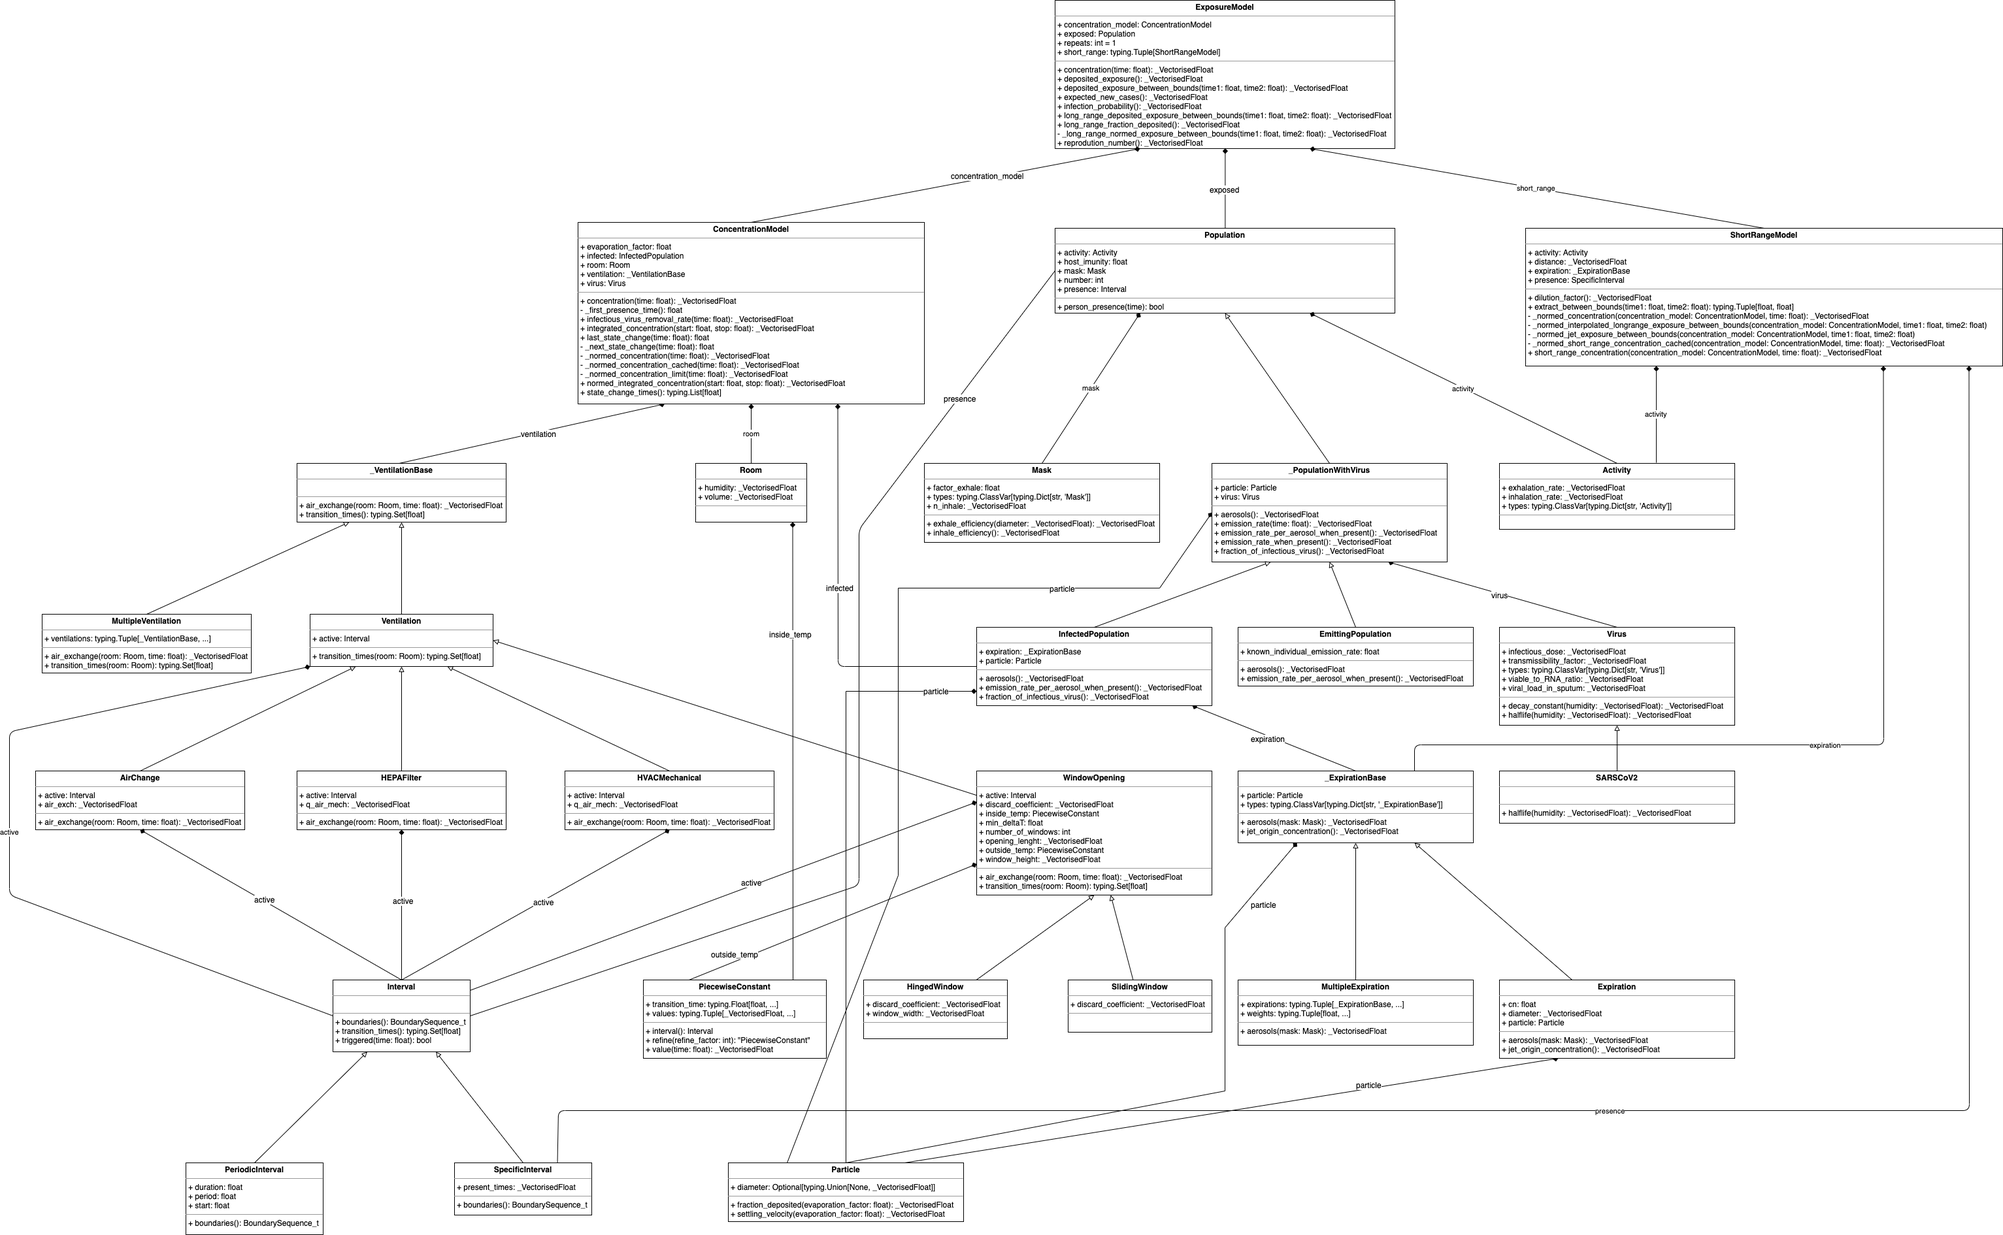
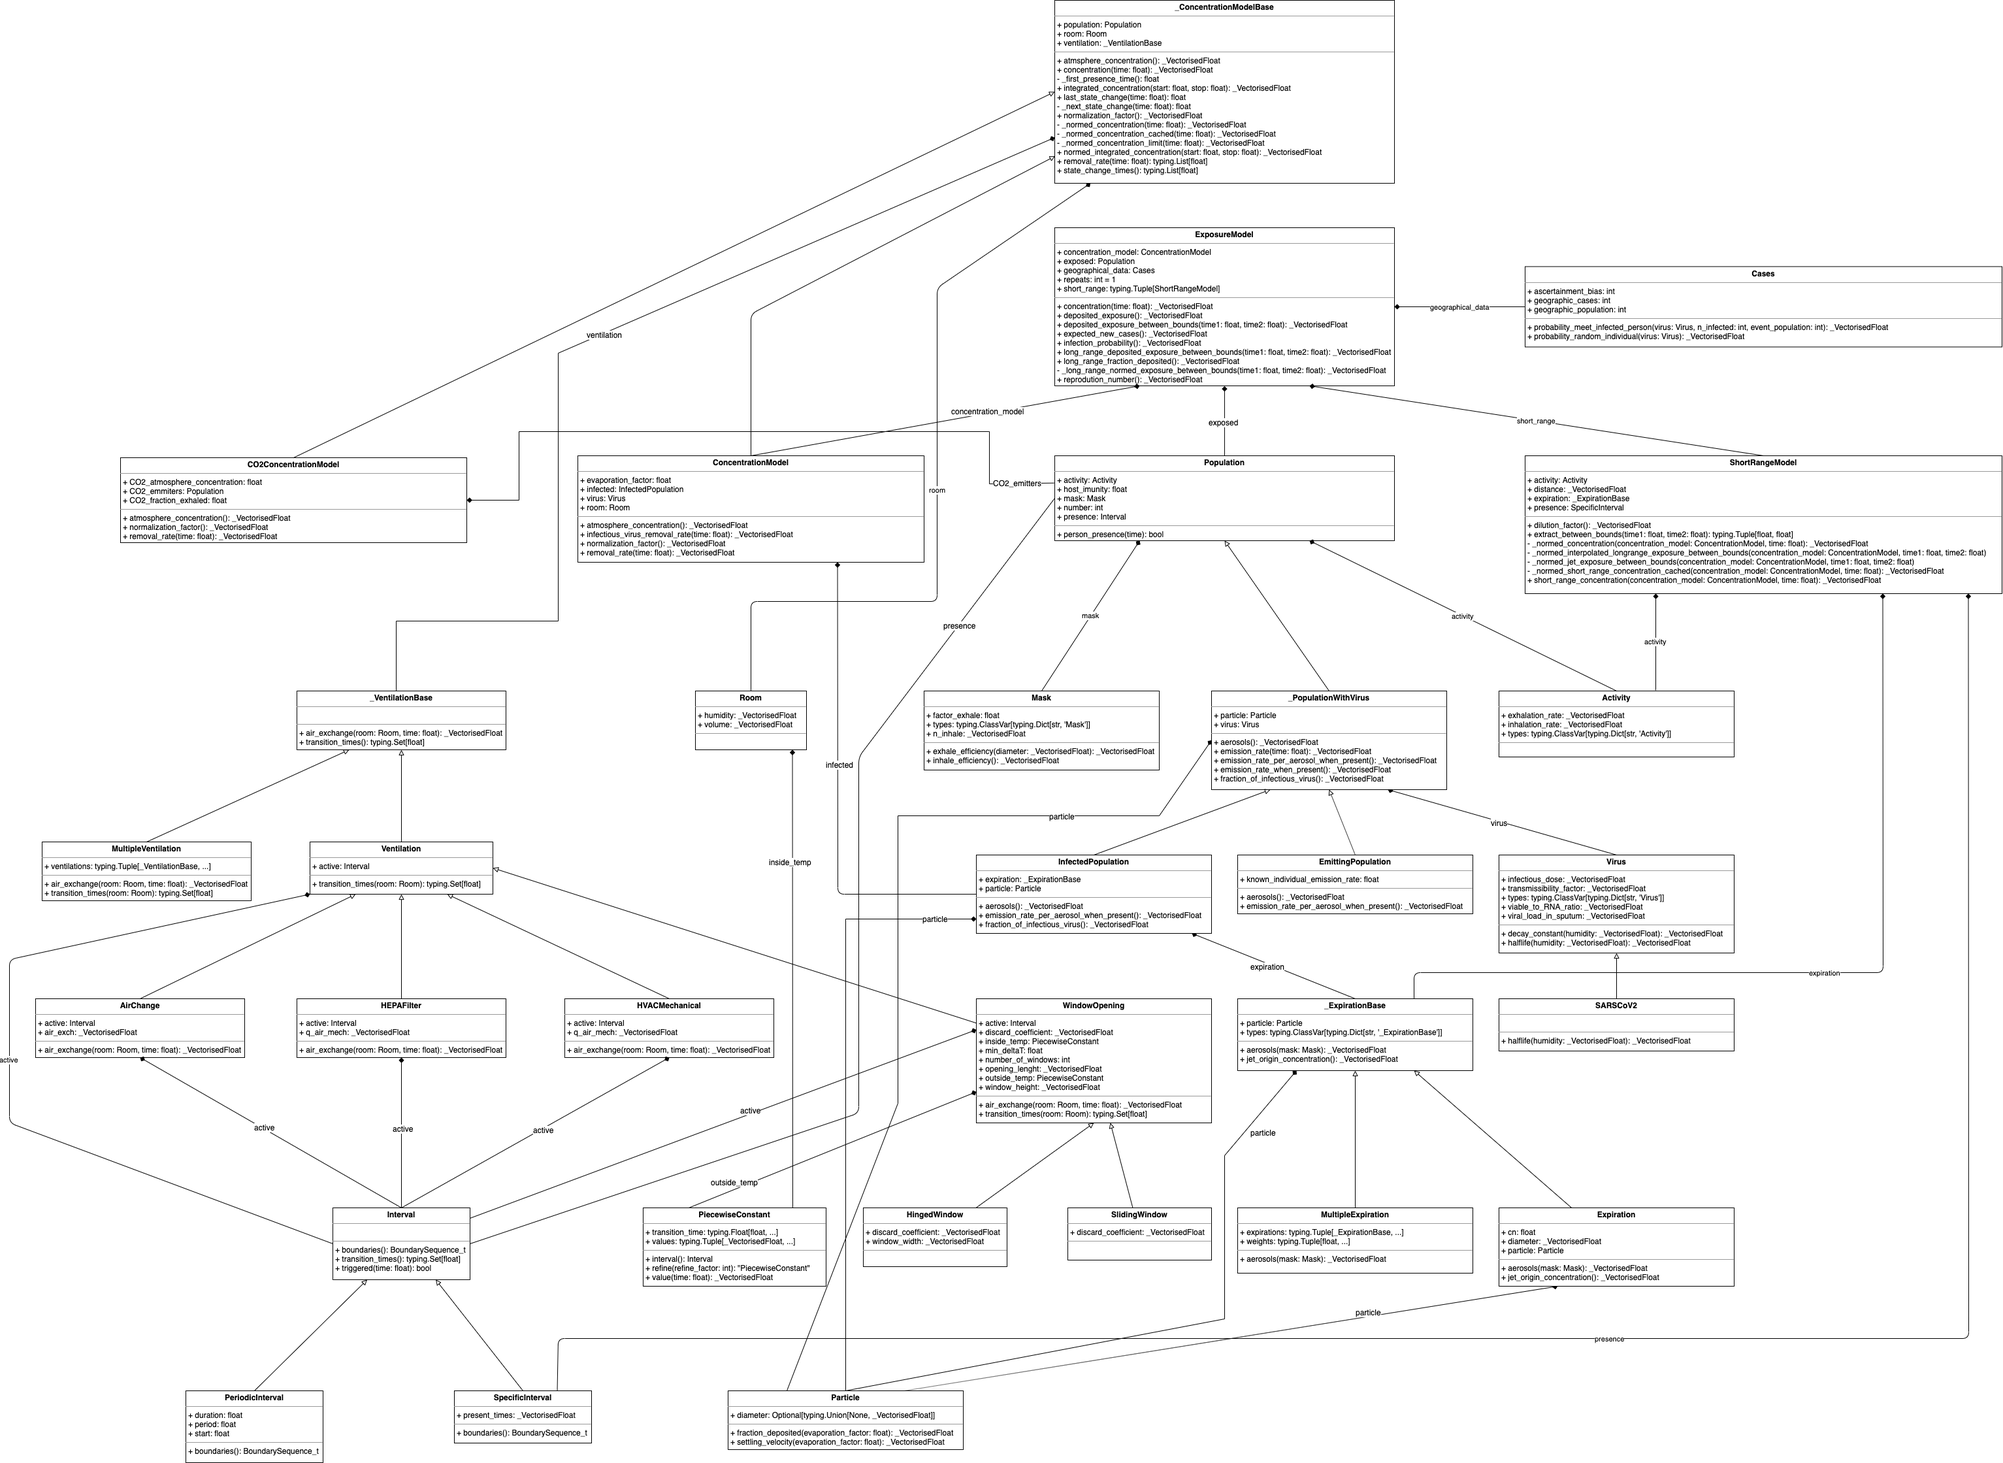
updated documentation and added tests for the integrated concentration

diff --git a/caimira/tests/models/test_concentration_model.py b/caimira/tests/models/test_concentration_model.py
@@ -3,8 +3,33 @@ import re
 import numpy as np
 import numpy.testing as npt
 import pytest
+from dataclasses import dataclass
 
 from caimira import models
+
+@dataclass(frozen=True)
+class KnownConcentrationModelBase(models._ConcentrationModelBase):
+    """
+    A ConcentrationModel where the atmosphere_concentration method is
+    redefined with a value taken from a new parameter. Useful for testing.
+
+    """
+    known_population: models.Population
+
+    known_atmosphere_concentration: float = 0.0
+
+    @property
+    def population(self) -> models.Population:
+        return self.known_population
+
+    def removal_rate(self, time: float):
+        return 10.
+
+    def atmosphere_concentration(self):
+        return self.known_atmosphere_concentration
+
+    def normalization_factor(self):
+        return 1e2
 
 
 @pytest.mark.parametrize(
@@ -59,9 +84,9 @@ def test_concentration_model_vectorisation(override_params):
 def simple_conc_model():
     interesting_times = models.SpecificInterval(([0.5, 1.], [1.1, 2], [2., 3.]), )
     return models.ConcentrationModel(
-        models.Room(75, models.PiecewiseConstant((0., 24.), (293,))),
-        models.AirChange(interesting_times, 100),
-        models.InfectedPopulation(
+        room = models.Room(75, models.PiecewiseConstant((0., 24.), (293,))),
+        ventilation = models.AirChange(interesting_times, 100),
+        infected = models.InfectedPopulation(
             number=1,
             presence=interesting_times,
             mask=models.Mask.types['Type I'],
@@ -137,3 +162,33 @@ def test_integrated_concentration(simple_conc_model):
     c3 = simple_conc_model.integrated_concentration(1, 2)
     assert c1 != 0
     npt.assert_almost_equal(c1, c2 + c3, decimal=15)
+
+
+@pytest.mark.parametrize(
+    "known_atmosphere_concentration, expected_normed_integrated_concentration", [
+        [0.0, 0.0017333437605308818],
+        [240.0, 4.801733343835203],
+        [440.0, 8.801733343835203],
+        [600., 12.001733343835202],
+        [1000., 20.00173334429238],
+    ]
+)
+def test_normed_integrated_concentration(
+    simple_conc_model: models.ConcentrationModel, 
+    known_atmosphere_concentration: float, 
+    expected_normed_integrated_concentration: float):
+
+    dummy_population = models.Population(
+        number=10,
+        presence=simple_conc_model.infected.presence,
+        mask=models.Mask.types['Type I'],
+        activity=models.Activity.types['Seated'],
+        host_immunity=0.,
+    )
+
+    known_conc_model = KnownConcentrationModelBase(
+        simple_conc_model.room, 
+        simple_conc_model.ventilation, 
+        dummy_population,
+        known_atmosphere_concentration)
+    npt.assert_almost_equal(known_conc_model.normed_integrated_concentration(0, 2), expected_normed_integrated_concentration)

diff --git a/caimira/tests/models/test_co2_concentration_model.py b/caimira/tests/models/test_co2_concentration_model.py
@@ -1,0 +1,44 @@
+import numpy.testing as npt
+import pytest
+
+from caimira import models
+
+
+@pytest.fixture
+def simple_co2_conc_model():
+    return models.CO2ConcentrationModel(
+        room=models.Room(200, models.PiecewiseConstant((0., 24.), (293,))),
+        ventilation=models.AirChange(models.PeriodicInterval(period=120, duration=120), 0.25),
+        CO2_emitters=models.Population(
+            number=5,
+            presence=models.SpecificInterval((([0., 4.], ))),
+            mask=models.Mask.types['No mask'],
+            activity=models.Activity.types['Seated'],
+            host_immunity=0.,
+        ),
+    )
+
+
+@pytest.mark.parametrize(
+    "time, expected_co2_concentration", [
+        [0., 440.44],
+        [1., 914.2487227],
+        [2., 1283.251327],
+        [3., 1570.630844],
+        [4., 1794.442237],
+    ]
+)
+def test_co2_concentration(
+    simple_co2_conc_model: models.CO2ConcentrationModel,
+    time: float,
+    expected_co2_concentration: float,
+):
+    npt.assert_almost_equal(simple_co2_conc_model.concentration(time), expected_co2_concentration)
+
+
+def test_integrated_concentration(simple_co2_conc_model):
+    c1 = simple_co2_conc_model.integrated_concentration(0, 2)
+    c2 = simple_co2_conc_model.integrated_concentration(0, 1)
+    c3 = simple_co2_conc_model.integrated_concentration(1, 2)
+    assert c1 != 0
+    npt.assert_almost_equal(c1, c2 + c3)

diff --git a/caimira/models.py b/caimira/models.py
@@ -1107,7 +1107,7 @@ class _ConcentrationModelBase:
         normalized by normalization_factor.
         """
         if stop <= self._first_presence_time():
-            return 0.0
+            return (stop - start)*self.atmosphere_concentration()/self.normalization_factor()
         state_change_times = self.state_change_times()
         req_start, req_stop = start, stop
         total_normed_concentration = 0.

diff --git a/caimira/docs/full_diameter_dependence.rst b/caimira/docs/full_diameter_dependence.rst
@@ -69,13 +69,15 @@ In the code, for a given Expiration, we use different methods to perform the cal
 Note that the diameter-dependence is kept at this stage. Since other parameters downstream in code are also diameter-dependent, the Monte-Carlo integration over the aerosol sizes is computed at the level of the dose :math:`\mathrm{vD^{total}}`.
 In case one would like to have intermediate results for emission rate, perform the Monte-Carlo integration of :math:`E_{c, j}^{\mathrm{total}}` and compute :math:`\mathrm{vR^{total}} =\mathrm{vl_{in}} \cdot E_{c, j}^{\mathrm{total}} \cdot \mathrm{BR_k}`.
 
-Concentration - C(t, D)
-=======================
+Virus Concentration - C(t, D)
+=============================
 
 The estimate of the concentration of virus-laden particles in a given room is based on a two-box exposure model:
 
 * **Box 1** - long-range exposure: also known as the *background* concentration, corresponds to the exposure of airborne virions where the susceptible (exposed) host is more than 2 m away from the infected host(s), considering the result of a mass balance equation between the emission rate of the infected host(s) and the removal rates from the environmental/virological characteristics.
 * **Box 2** - short-range exposure: also known as the *exhaled jet* concentration in close-proximity, corresponds to the exposure of airborne virions where the susceptible (exposed) host is distanced between 0.5 and 2 m from an infected host, considering the result of a two-stage exhaled jet model.
+
+Note that most of the methods used to calculate the concentration are defined in the superclass :meth:`caimira.models._ConcentrationModelBase`, while the specific methods for the long-range virus concentration are part of the subclass :meth:`caimira.models.ConcentrationModel`.
 
 Long-range approach
 *******************
@@ -84,8 +86,8 @@ The long-range concentration of virus-laden aerosols of a given size :math:`D`, 
 
 :math:`C_{\mathrm{LR}}(t, D)=\frac{\mathrm{vR}(D) \cdot N_{\mathrm{inf}}}{\lambda_{\mathrm{vRR}}(D) \cdot V_r}-\left (\frac{\mathrm{vR}(D) \cdot N_{\mathrm{inf}}}{\lambda_{\mathrm{vRR}}(D) \cdot V_r}-C_0(D) \right )e^{-\lambda_{\mathrm{vRR}}(D)t}` ,
 
-and computed, as a function of the exposure time and particle diameter, in the :meth:`caimira.models.ConcentrationModel.concentration` method.
-The long-range concentration, integrated over the exposure time (in piecewise constant steps), :math:`C(D)`, is given by :meth:`caimira.models.ConcentrationModel.integrated_concentration`.
+and computed, as a function of the exposure time and particle diameter, in the :meth:`caimira.models._ConcentrationModelBase.concentration` method.
+The long-range concentration, integrated over the exposure time (in piecewise constant steps), :math:`C(D)`, is given by :meth:`caimira.models._ConcentrationModelBase.integrated_concentration`.
 
 In the :math:`C_{\mathrm{LR}}(t, D)` equation above, the **emission rate** - :math:`\mathrm{vR}(D)` - and the **viral removal rate** - :math:`\lambda_{\mathrm{vRR}}(D)`, :meth:`caimira.models.ConcentrationModel.infectious_virus_removal_rate` - are both diameter-dependent.
 One can show that the resulting concentration is always proportional to the emission rate :math:`\mathrm{vR}(D)`. Hence, for computational speed-up purposes
@@ -93,8 +95,8 @@ the code computes first a normalized version of the concentration, i.e. divided 
 
 To summarize, we can split the concentration in two different formulations:
 
-* Normalized concentration :meth:`caimira.models.ConcentrationModel._normed_concentration`: :math:`\mathrm{C_\mathrm{LR, normed}}(t, D)` that computes the concentration without including the emission rate.
-* Concentration :meth:`caimira.models.ConcentrationModel.concentration` : :math:`C_{\mathrm{LR}}(t, D) = \mathrm{C_\mathrm{LR, normed}}(t, D) \cdot \mathrm{vR}(D)`, where :math:`\mathrm{vR}(D)` is the result of the :meth:`caimira.models._PopulationWithVirus.emission_rate_when_present` method.
+* Normalized concentration :meth:`caimira.models._ConcentrationModelBase._normed_concentration`: :math:`\mathrm{C_\mathrm{LR, normed}}(t, D)` that computes the concentration without including the emission rate.
+* Concentration :meth:`caimira.models._ConcentrationModelBase.concentration` : :math:`C_{\mathrm{LR}}(t, D) = \mathrm{C_\mathrm{LR, normed}}(t, D) \cdot \mathrm{vR}(D)`, where :math:`\mathrm{vR}(D)` is the result of the :meth:`caimira.models._PopulationWithVirus.emission_rate_when_present` method.
 
 Note that in order to get the total concentration value in this stage, the final result should be averaged over the particle diameters (i.e. Monte-Carlo integration over diameters, see above).
 For the calculator app report, the total concentration (MC integral over the diameter) is performed only when generating the plot.
@@ -102,8 +104,8 @@ Otherwise, the diameter-dependence continues until we compute the inhaled dose i
 
 The following methods calculate the integrated concentration between two times. They are mostly used when calculating the **dose**:
 
-* :meth:`caimira.models.ConcentrationModel.normed_integrated_concentration`, :math:`\mathrm{C_\mathrm{normed}}(D)` that returns the integrated long-range concentration of viruses in the air, between any two times, normalized by the emission rate. Note that this method performs the integral between any two times of the previously mentioned :meth:`caimira.models.ConcentrationModel._normed_concentration` method.
-* :meth:`caimira.models.ConcentrationModel.integrated_concentration`, :math:`C(D)`, that returns the same result as the previous one, but multiplied by the emission rate.
+* :meth:`caimira.models._ConcentrationModelBase.normed_integrated_concentration`, :math:`\mathrm{C_\mathrm{normed}}(D)` that returns the integrated long-range concentration of viruses in the air, between any two times, normalized by the emission rate. Note that this method performs the integral between any two times of the previously mentioned :meth:`caimira.models._ConcentrationModelBase._normed_concentration` method.
+* :meth:`caimira.models._ConcentrationModelBase.integrated_concentration`, :math:`C(D)`, that returns the same result as the previous one, but multiplied by the emission rate.
 
 The integral over the exposure times is calculated directly in the class (integrated methods).
 
@@ -115,7 +117,7 @@ The short-range concentration is the result of a two-stage exhaled jet model dev
 :math:`C_{\mathrm{SR}}(t, D) = C_{\mathrm{LR}} (t, D) + \frac{1}{S({x})} \cdot (C_{0, \mathrm{SR}}(D) - C_{\mathrm{LR}, 100μm}(t, D))` ,
 
 where :math:`S(x)` is the dilution factor due to jet dynamics, as a function of the interpersonal distance :math:`x` and :math:`C_{0, \mathrm{SR}}(D)` corresponds to the initial concentration of virions at the mouth/nose outlet during exhalation.
-:math:`C_{\mathrm{LR}, 100μm}(t, D)` is the long-range concentration, calculated in :meth:`caimira.models.ConcentrationModel.concentration` method but **interpolated** to the diameter range used for close-proximity (from 0 to 100μm).
+:math:`C_{\mathrm{LR}, 100μm}(t, D)` is the long-range concentration, calculated in :meth:`caimira.models._ConcentrationModelBase.concentration` method but **interpolated** to the diameter range used for close-proximity (from 0 to 100μm).
 Note that :math:`C_{0, \mathrm{SR}}(D)` is constant over time, hence only dependent on the particle diameter distribution. 
 
 For code simplification, we split the :math:`C_{\mathrm{SR}}(t, D)` equation into two components:
@@ -182,9 +184,9 @@ To summarize, in the code, :math:`C_{\mathrm{SR}}(t, D)` is computed as follows:
 * calculate the `dilution_factor` - :math:`S({x})` - in the method :meth:`caimira.models.ShortRangeModel.dilution_factor`, with the distance :math:`x` as a random variable (log normal distribution in :meth:`caimira.monte_carlo.data.short_range_distances`)
 * compute :math:`\frac{1}{S({x})} \cdot (C_{0, \mathrm{SR}}(D) - C_{\mathrm{LR}, 100\mathrm{μm}}(t, D))` in method :meth:`caimira.models.ShortRangeModel.normed_concentration`,
 * multiply by the diameter-independent parameter,  viral load, in method :meth:`caimira.models.ShortRangeModel.short_range_concentration`
-* complete the equation of :math:`C_{\mathrm{SR}}(t, D)` by adding the long-range concentration from the :meth:`caimira.models.ConcentrationModel.concentration` (all integrated over :math:`D`), returning the final short-range concentration value for a given time and expiration activity. This is done at the level of the Exposure Model (:meth:`caimira.models.ExposureModel.concentration`).
+* complete the equation of :math:`C_{\mathrm{SR}}(t, D)` by adding the long-range concentration from the :meth:`caimira.models._ConcentrationModelBase.concentration` (all integrated over :math:`D`), returning the final short-range concentration value for a given time and expiration activity. This is done at the level of the Exposure Model (:meth:`caimira.models.ExposureModel.concentration`).
 
-Note that :meth:`caimira.models.ShortRangeModel._normed_concentration` method is different from :meth:`caimira.models.ConcentrationModel._normed_concentration` and :meth:`caimira.models.ConcentrationModel.concentration` differs from :meth:`caimira.models.ExposureModel.concentration`.
+Note that :meth:`caimira.models.ShortRangeModel._normed_concentration` method is different from :meth:`caimira.models._ConcentrationModelBase._normed_concentration` and :meth:`caimira.models._ConcentrationModelBase.concentration` differs from :meth:`caimira.models.ExposureModel.concentration`.
 
 Unless one is computing the mean concentration values (e.g. for the plots in the report), the diameter-dependence is kept at this stage. Since other parameters downstream in the code are also diameter-dependent, the Monte-Carlo integration over the particle sizes is computed at the level of the dose :math:`\mathrm{vD^{total}}`.
 In case one would like to have intermediate results for the initial short-range concentration, this is done at the :class:`caimira.models.ExposureModel` class level.
@@ -217,7 +219,7 @@ Long-range approach
 *******************
 
 Regarding the concentration part of the long-range exposure (concentration integrated over time, :math:`\int_{t1}^{t2}C_{\mathrm{LR}}(t, D)\;\mathrm{d}t`), the respective method is :meth:`caimira.models.ExposureModel._long_range_normed_exposure_between_bounds`,
-which uses the long-range exposure (concentration) between two bounds (time1 and time2), normalized by the emission rate of the infected population, calculated from :meth:`caimira.models.ConcentrationModel.normed_integrated_concentration`.
+which uses the long-range exposure (concentration) between two bounds (time1 and time2), normalized by the emission rate of the infected population, calculated from :meth:`caimira.models._ConcentrationModelBase.normed_integrated_concentration`.
 The former method filters out the given bounds considering the breaks through the day (i.e. the time intervals during which there is no exposition to the virus) and retrieves the integrated long-range concentration of viruses in the air between any two times.
 
 After the calculations of the integrated concentration over the time, in order to calculate the final dose, we have to compute the remaining factors in the above equation.
@@ -303,6 +305,15 @@ The final operation in the :meth:`caimira.models.ExposureModel.deposited_exposur
 If short-range interactions exist: the long-range component is added to the already calculated short-range component (`deposited_exposure`), hence completing :math:`C_{\mathrm{SR}}`.
 If the are no short-range interactions: the short-range component (`deposited_exposure`) is zero, hence the result is equal solely to the long-range component :math:`C_{\mathrm{LR}}`.
 
+
+:math:`\mathrm{CO}_{2}` Concentration
+=====================================
+
+The estimate of the concentration of :math:`\mathrm{CO}_{2}` in a given room to indicate the air quality is given by the same equation of the virus concentration for the long-range approach, :math:`C_{\mathrm{LR}}(t, D)`, where :math:`C_0(D)` is the background :math:`\mathrm{CO}_{2}` concentration in the atmosphere (initially defined as `440.44 ppm`).
+Note that in order to calculate the :math:`\mathrm{CO}_{2}` concentration one should use the concentration method defined in the superclass - :meth:`caimira.models._ConcentrationModelBase.concentration` - for a dedicated :class:`caimira.models.CO2ConcentrationModel` scenario.
+A fraction of 4.2% of the exhalation rate of the defined activity was considered as the :math:`\mathrm{CO}_{2}` supplied to the room.
+
+Since the :math:`\mathrm{CO}_{2}` concentration differs from the virus concentration, the specific removal rate, atmospheric concentration and normalization factors are respectively defined in :meth:`caimira.models.CO2ConcentrationModel.removal_rate`, :meth:`caimira.models.CO2ConcentrationModel.atmosphere_concentration` and :meth:`caimira.models.CO2ConcentrationModel.normalization_factor`. 
 
 .. _caimira-uml-diagram:
 
